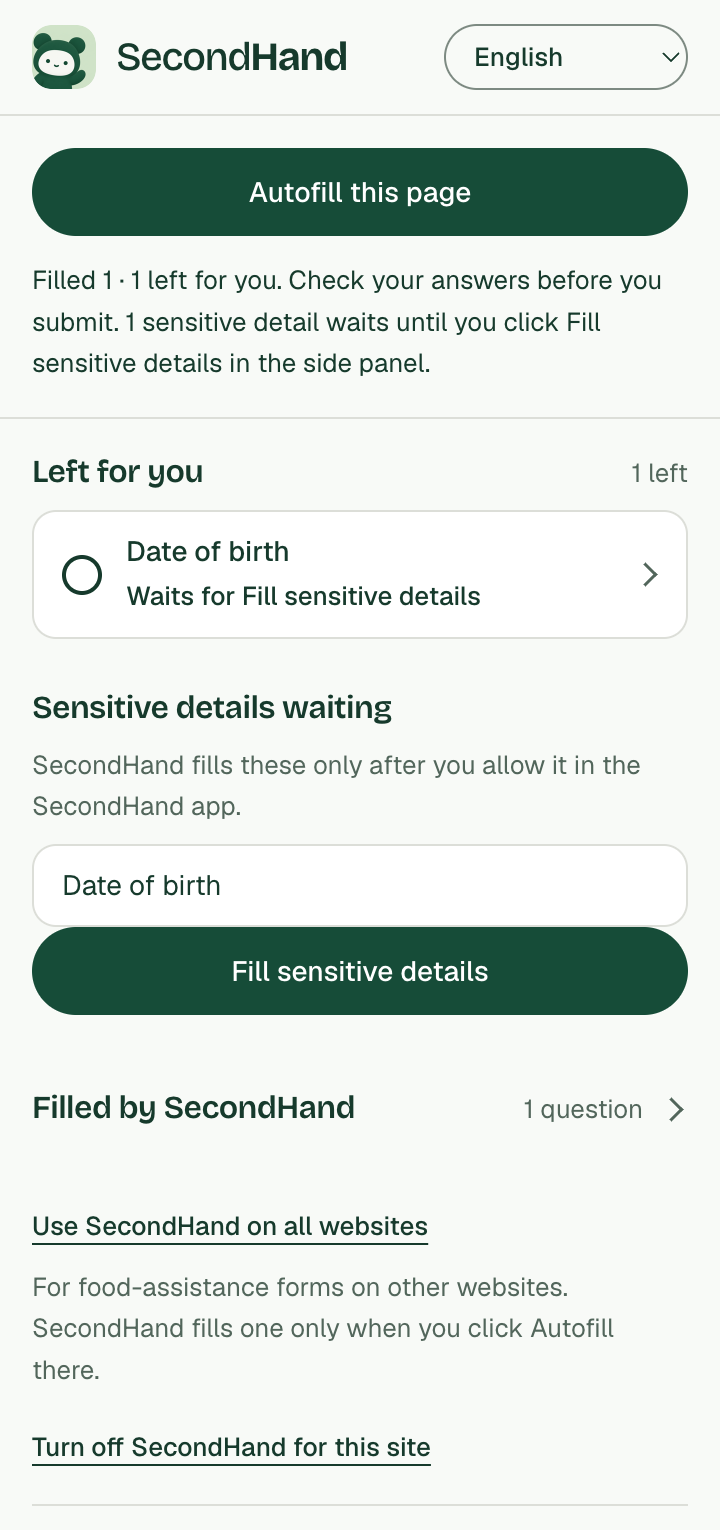
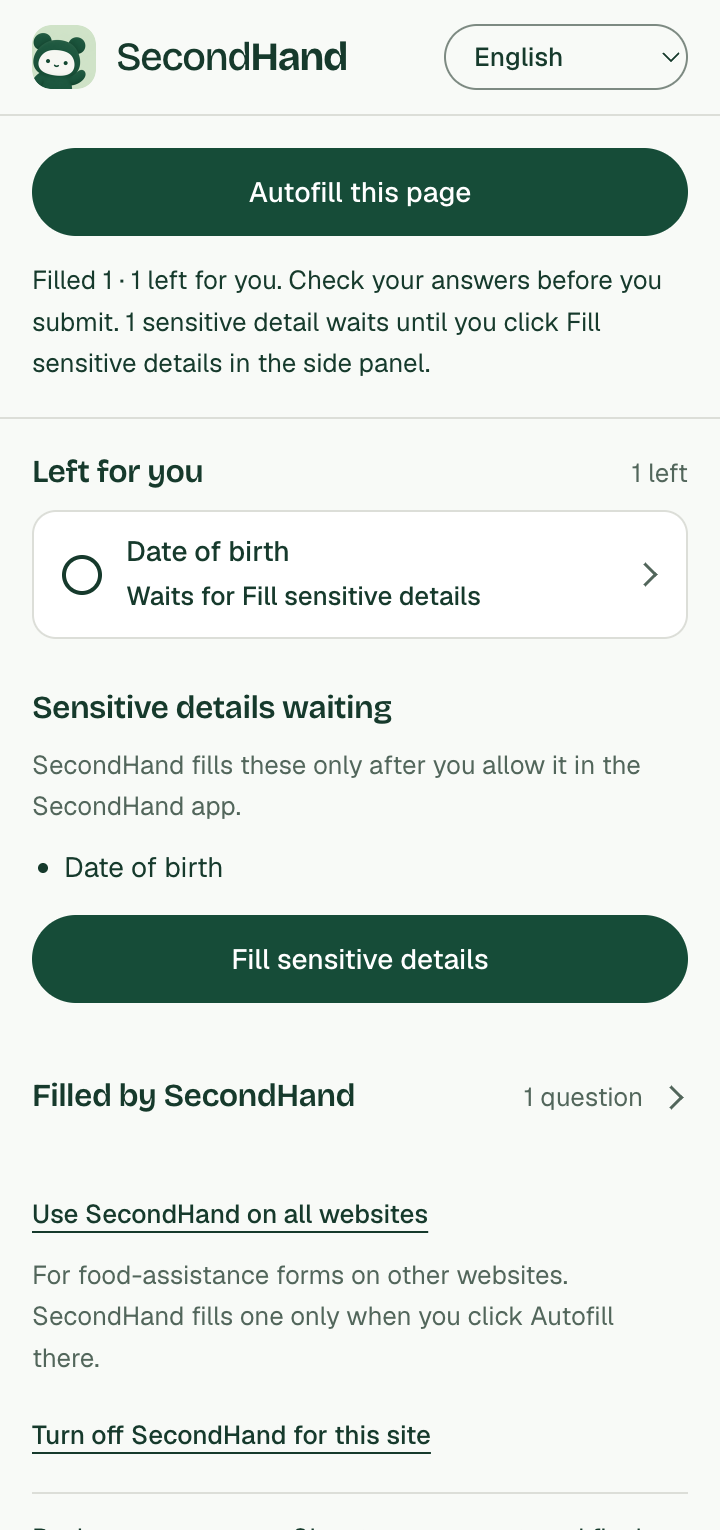
style: list the held sensitive details as lines, not boxes
Under "Sensitive details waiting", each question Fill sensitive details
will fill sat in a white box with no mark or arrow, so "Date of birth"
looked like an empty field to type in, on main as here. They are now a
plain bulleted list above the button. The same question in "Left for
you" keeps its row, which finds it in the form.

diff --git a/extension/panel.css b/extension/panel.css
@@ -89,3 +89,6 @@ details.filled>summary>span{display:flex;align-items:center;gap:10px}details.fil
 .save-hint{color:var(--muted-foreground);margin:0 0 8px}.save-row{flex-wrap:wrap;cursor:default}.save-row .checklist-copy{flex:1 1 120px}.save-row .button{min-height:36px;padding:6px 14px;font-size:13px}
 /* Laya's best guess (#185): the dotted outline it has on the page. */
 .guess-mark{border:2px dotted #9b3d8f}
+/* What Fill sensitive details will fill: a plain list above its button, not boxes that look like fields to type in. */
+#held-list{background:none;border:0;border-radius:0;margin:0 0 12px}#held-list .checklist-item{position:relative;padding:2px 0;padding-inline-start:16px}
+#held-list .checklist-item::before{content:"";position:absolute;inset-inline-start:3px;top:50%;width:5px;height:5px;margin-top:-2.5px;border-radius:50%;background:var(--foreground)}
